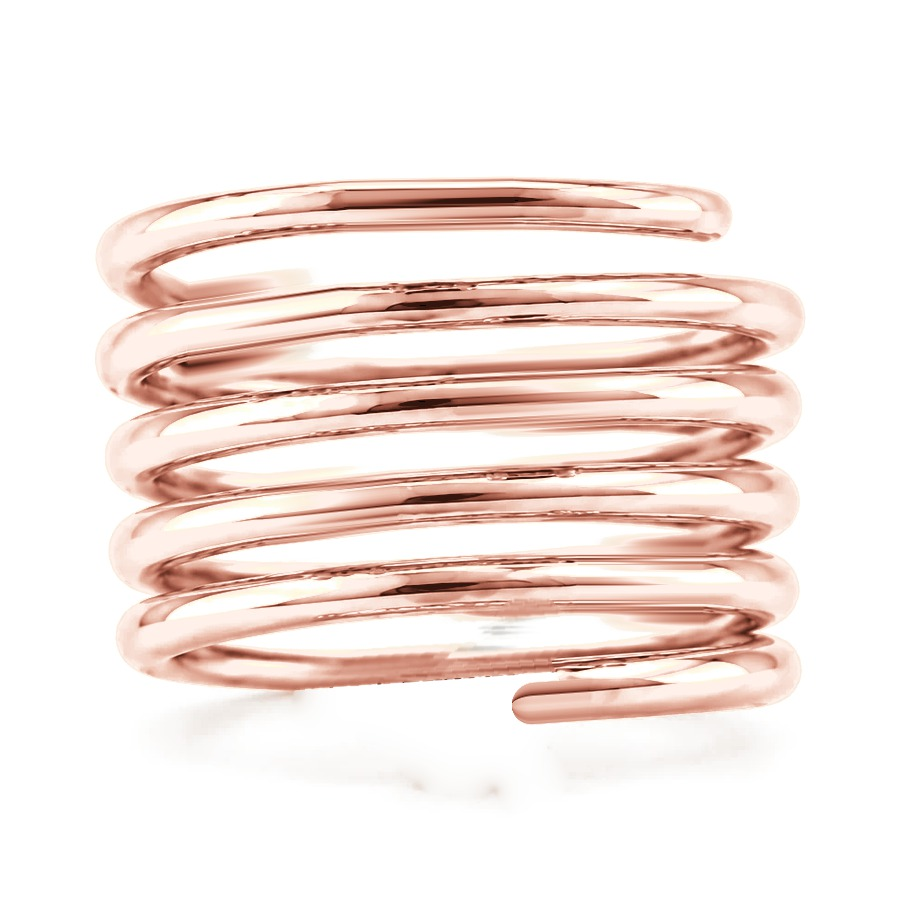
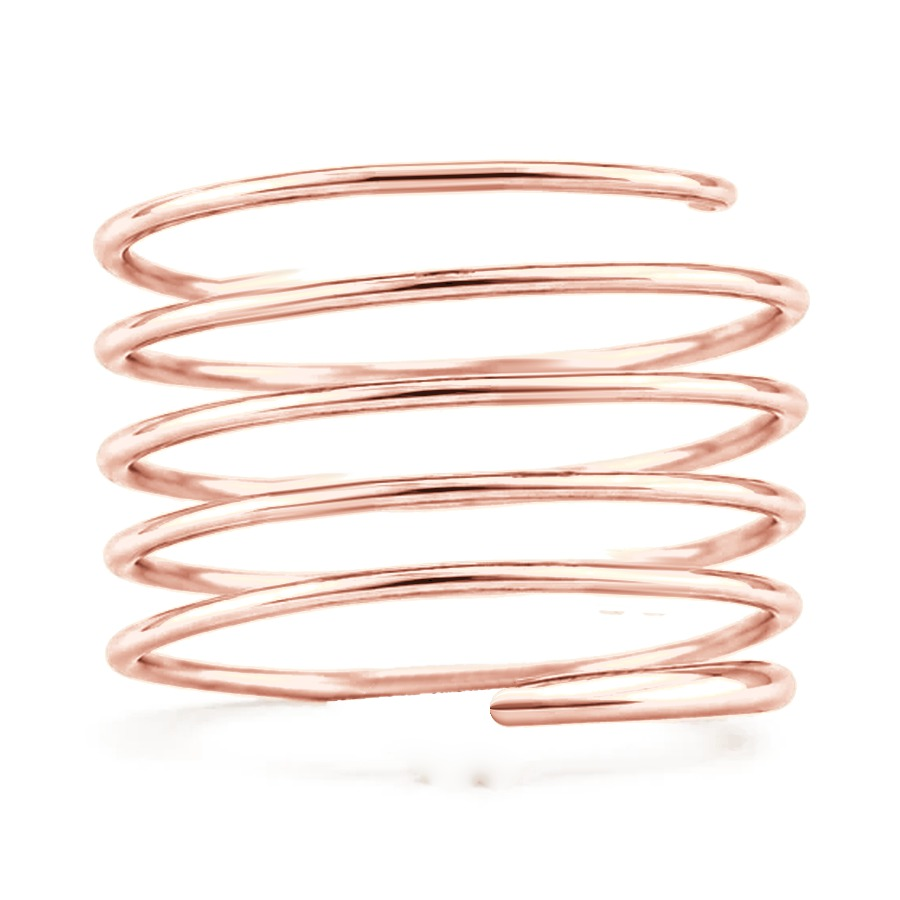
Daintier ring photos: thinner band, smaller stones
New photos for all five wrap counts, in gold, rose and silver. The Stone
Bank stones and the bottom stone are sized and seated per photo, so they
match the stones that were in each one.

Changed region(s): [[0.0933, 0.1556, 0.9022, 0.8089], [0.5289, 0.84, 0.56, 0.8711]]

diff --git a/index.html b/index.html
@@ -307,7 +307,6 @@ const BOTTOM_BANK = {
   'oval-100':{w:108.0, h:148.0, bw:104.0, bh:143.7},
   'pear-100':{w:113.3, h:182.7, bw:106.0, bh:152.3},
 };
-const BOTTOM_SCALE = 1.5;              // photo pixels per sheet unit: a 1.00 ct pear lies about as long as the one in her ring photos
 const METALS = {
   y:{label:'Gold',      dir:'gold'},
   r:{label:'Rose gold', dir:'rose'},
@@ -316,13 +315,16 @@ const METALS = {
 const MAX_WRAPS = 5;
 /* Where things sit on each ring photo, measured on the 900px photo:
    stones = [x, y, twinX, twinY] per wrap, top wrap first (the twin sits beside the first stone, on the same wire);
-   size = a small stone's radius; tip = the free end of the bottom wire, where the bottom stone is set. */
+   size = a small stone's radius.
+   The bottom stone goes where the photo's own pear sat: bottom = photo pixels per sheet unit (a 1.00 ct pear lies as long
+   as that pear did); seat = [the pear's right edge, the wire's centre there]; top = the pear's top edge;
+   drop = how far below the wire the pear's centre hung, as a share of its height. */
 const RINGS = {
-  1:{size:51.2, tip:[548,555], stones:[[442,358,557,348]]},
-  2:{size:43.3, tip:[541,610], stones:[[428,313,525,304],[287,453,384,446]]},
-  3:{size:41.8, tip:[523,589], stones:[[419,236,513,229],[275,373,369,351],[539,456,445,464]]},
-  4:{size:42.5, tip:[525,667], stones:[[417,249,513,246],[262,363,358,360],[537,444,441,447],[325,550,421,543]]},
-  5:{size:44.2, tip:[511,705], stones:[[431,208,530,206],[264,318,363,306],[539,402,440,407],[331,505,430,494],[640,582,541,582]]},
+  1:{size:43.2, bottom:1.32, seat:[558,509], top:462, drop:0.22, stones:[[436,317,533,307]]},
+  2:{size:33.6, bottom:1.25, seat:[554,599], top:544, drop:0.18, stones:[[422,309,498,301],[294,454,370,440]]},
+  3:{size:32.5, bottom:1.18, seat:[542,624], top:601, drop:0.34, stones:[[423,263,496,255],[290,405,363,389],[557,496,484,503]]},
+  4:{size:34.5, bottom:1.18, seat:[537,670], top:611, drop:0.11, stones:[[416,238,494,235],[263,359,341,348],[540,446,462,449],[327,557,405,551]]},
+  5:{size:30.5, bottom:1.01, seat:[518,707], top:651, drop:0.08, stones:[[440,181,509,179],[273,306,342,295],[558,394,489,395],[322,499,391,492],[640,582,571,578]]},
 };
 const PHOTO = 900, STONE_BOX = 3;      // a stone image is 3x its stone's radius wide (300px file, 100px radius)
 
@@ -428,12 +430,12 @@ function renderBottomStone(){
   const b = state.bottom, g = bgem;
   g.b.classList.toggle('empty', !b.on);
   if (!b.on){ g.shown = null; return; }
-  const B = BOTTOM_BANK[b.cut + '-' + b.size], side = lies(b), F = BOTTOM_SCALE;
+  const B = BOTTOM_BANK[b.cut + '-' + b.size], side = lies(b), R = RINGS[state.count], F = R.bottom;
   const vw = side ? B.h : B.w, vh = side ? B.w : B.h;                 // the image's footprint as it lies
   const bodyW = (side ? B.bh : B.bw) * F, bodyH = (side ? B.bw : B.bh) * F;
-  const tip = RINGS[state.count].tip;
-  const cx = tip[0] + 40 - bodyW / 2;                                  // its right edge covers the wire's tip
-  const cy = Math.min(tip[1] + Math.max(0, bodyH / 2 - 88), PHOTO - 14 - vh * F / 2);   // tall stones hang a little lower; nothing leaves the frame
+  const cx = R.seat[0] - bodyW / 2;                                    // its right edge is where the pear's was, over the wire's end
+  const cy = Math.min(Math.max(R.seat[1] + R.drop * bodyH, R.top + bodyH / 2),          // hangs off the wire as the pear did, never higher than it
+                      PHOTO - 14 - vh * F / 2);                                         // and nothing leaves the frame
   g.b.style.left = (cx / PHOTO * 100) + '%';
   g.b.style.top = (cy / PHOTO * 100) + '%';
   g.b.style.width = (vw * F / PHOTO * 100) + '%';

diff --git a/tools/remove_bottom_stone.py b/tools/remove_bottom_stone.py
@@ -5,10 +5,18 @@ import numpy as np
 from PIL import Image, ImageDraw
 from scipy import ndimage
 pears=json.load(open('pears.json'))
+# prong beads, marked by eye on gridded close-ups: tip, top right, bottom right (x, y, r)
+BEADS={1:[(340,549,18),(531,485,17),(533,609,18)], 2:[(347,638,17),(526,571,16),(533,691,17)], 3:[(347,670,17),(519,617,16),(520,723,17)],
+       4:[(342,682,17),(518,622,18),(520,740,19)], 5:[(348,713,15),(500,660,16),(499,763,17)]}
+for n,b in BEADS.items(): pears[str(n)]['beads']=[list(map(float,x)) for x in b]
 disk=lambda q:(np.hypot(*np.mgrid[-q:q+1,-q:q+1])<=q)
 def gold_of(a):
     r,g,b=a[:,:,0],a[:,:,1],a[:,:,2]; mx=a.max(2); mn=a.min(2); sat=(mx-mn)/np.maximum(mx,1)
     return (r-b>45)&(sat>0.28)&(r>110)
+def metal_of(a):
+    """anything that is wire: gold, its dark reflections and its pale highlights (the backdrop and its shadows are grey-white)"""
+    mx=a.max(2); mn=a.min(2); sat=(mx-mn)/np.maximum(mx,1); lum=0.3*a[:,:,0]+0.59*a[:,:,1]+0.11*a[:,:,2]
+    return (sat>0.17)|(lum<150)
 def runs(col,minlen=14,gap=3):
     ys=np.nonzero(col)[0]
     if len(ys)==0: return []
@@ -25,21 +33,21 @@ def harmonic(img,fillm,usable,init,iters=1500):
         den=ndimage.convolve(ok,kern,mode='nearest')[:,:,None]
         sub[fillm]=(num/np.maximum(den,1e-6))[fillm]
     return sub
-def erase(a,pg):
+def erase(a,pg,T):
     H,W,_=a.shape; hull=np.array(pg['hull']); beads=pg['beads']
     m=Image.new('L',(W,H),0); ImageDraw.Draw(m).polygon([tuple(p) for p in hull.tolist()],fill=255); hole=np.asarray(m)>0
     YY,XX=np.mgrid[0:H,0:W]
-    for x,y,r in beads: hole|=(XX-x)**2+(YY-y)**2<=(r+12)**2
+    for x,y,r in beads: hole|=(XX-x)**2+(YY-y)**2<=(r+5)**2
     hole=ndimage.binary_dilation(hole,structure=disk(5))
-    g=gold_of(a)
+    g=gold_of(a); gc=ndimage.binary_closing(metal_of(a),structure=np.ones((13,1),bool))   # gc: highlights along a wire bridged, for measuring runs
     gl,gk=ndimage.label(g&~hole); gsz=ndimage.sum(g&~hole,gl,range(1,gk+1))
-    scraps=np.isin(gl,1+np.nonzero(gsz<500)[0])&ndimage.binary_dilation(hole,structure=disk(14))   # bits of prong left beside it
+    scraps=np.isin(gl,1+np.nonzero(gsz<1500)[0])&ndimage.binary_dilation(hole,structure=disk(14))   # bits of prong left beside it
     hole|=ndimage.binary_dilation(scraps,structure=disk(3))
     g2=g&~hole
     ys,xs=np.nonzero(hole); y0=ys.min(); y1=ys.max(); cxh=(hull[:,0].min()+hull[:,0].max())/2.0
-    xR=int(hull[:,0].max())+int(max(b[2] for b in beads))+12
-    rr=runs(g2[:,xR]); wt,wb=rr[-1]
-    if wb-wt>52: bandR=wb-42; wt=wb-41                          # the wire touches the band above here
+    xR=int(max(hull[:,0].max(),max(b[0]+b[2] for b in beads)))+12
+    rr=runs((gc&~hole)[:,xR]); wt,wb=rr[-1]; print('   runs at',xR,rr,'T',T)
+    if T and wb-wt>T+10: bandR=wb-T; wt=wb-T+1                          # the wire touches the band above here
     else: bandR=rr[-2][1] if len(rr)>1 else wt-1
     ring=ndimage.binary_dilation(hole,structure=disk(4))&~hole&g
     ly,lx=np.nonzero(ring&(XX<cxh))
@@ -74,7 +82,7 @@ def erase(a,pg):
         e=np.abs(A[wt-6:wb+7]-B[wt-6+dd:wb+7+dd]).mean()
         if best is None or e<best[0]: best=(e,dd)
     sw=best[1]/28.0; half=(wb-wt)/2.0+1; cR=(wt+wb)/2.0; yy=np.arange(H)
-    x_end=int(hull[:,0].max())-46; wire=np.zeros((H,W),bool)
+    x_end=int(hull[:,0].max())-int(round(0.19*(hull[:,0].max()-hull[:,0].min()))); wire=np.zeros((H,W),bool)
     for x in range(x_end,xR+1):
         c=cR+sw*(x-xR)
         hh=half if x>=x_end+half else half*np.sqrt(max(0.0,1-((x_end+half-x)/half)**2))
@@ -87,12 +95,14 @@ def erase(a,pg):
     mask=hole|(wire&(XX<=xR))
     soft=ndimage.gaussian_filter(mask.astype(float),1.2)[:,:,None]
     out=a*(1-soft)+fill*soft
-    return out,dict(tip=[int(x_end),int(round(cR+sw*(x_end-xR)))],wire_half=round(half,1),slope=round(sw,4),body=pg['body'],edge=[PL,PR])
+    hx=float(hull[:,0].max()); return out,dict(T=int(T),right=int(hx),wire_at_right=round(float(cR+sw*(hx-xR)),1),tip=[int(x_end),int(round(cR+sw*(x_end-xR)))],wire_half=round(half,1),slope=round(sw,4),body=pg['body'],edge=[PL,PR])
 if __name__=='__main__':
     info={}; sheet=Image.new('RGB',(5*440,360),(255,255,255))
     for n in range(1,6):
         a=np.asarray(Image.open(f'nostone-{n}.png').convert('RGB')).astype(float)
-        out,inf=erase(a,pears[str(n)]); info[n]=inf
+        g=ndimage.binary_closing(metal_of(a),structure=np.ones((13,1),bool)); rounds=json.load(open('rounds.json'))[str(n)]; top=rounds[0]
+        col=g[:,int(top['x']+3*top['r'])]; T=[r for r in runs(col,minlen=8)][0]; T=int((T[1]-T[0]+1)*1.25)
+        out,inf=erase(a,pears[str(n)],T if n in (3,4,5) else 0); info[n]=inf   # only on the 3, 4 and 5 wrap rings does the wire run into the band above
         im=Image.fromarray(np.clip(out,0,255).astype(np.uint8)); im.save(f'bare-{n}.png')
         x0,y0,x1,y1=inf['body']; cx=(x0+x1)//2; cy=(y0+y1)//2
         sheet.paste(im.crop((cx-220,cy-180,cx+220,cy+180)),((n-1)*440,0)); print(n,inf)

diff --git a/tools/make_ring_backgrounds.py b/tools/make_ring_backgrounds.py
@@ -37,6 +37,10 @@ for n in range(1,6):
     for s in st:
         sl=slope_at(std,s['x'],s['y'],s['r']); dx=(1 if s['x']<450 else -1)*2.25*size
         stones.append([s['x'],s['y'],round(s['x']+dx),round(s['y']+sl*dx)])
-    table[n]=dict(size=round(size,1),stones=stones,tip=bare[str(n)]['tip'])
+    B=bare[str(n)]; x0,y0,x1,y1=B['body']; h=y1-y0; w=x1-x0
+    # the bottom stone: where the photo's own pear sat. seat = [its right edge, the wire's centre there]; top = its top edge;
+    # drop = how far below the wire its centre hung, as a share of its height; bottom = photo px per sheet unit (pear 1.00 ct = 152.3 long)
+    table[n]=dict(size=round(size,1),stones=stones,seat=[B['right'],round(B['wire_at_right'])],top=y0,drop=round((y0+h/2-B['wire_at_right'])/h,2),bottom=round(w/152.3,2))
 json.dump(table,open('rings-table.json','w'))
-for n in range(1,6): print(f"  {n}:{{size:{table[n]['size']}, tip:{table[n]['tip']}, stones:{json.dumps(table[n]['stones']).replace(' ','')}}},")
+for n in range(1,6):
+    t=table[n]; print(f"  {n}:{{size:{t['size']}, bottom:{t['bottom']}, seat:{t['seat']}, top:{t['top']}, drop:{t['drop']}, stones:{json.dumps(t['stones']).replace(' ','')}}},")
